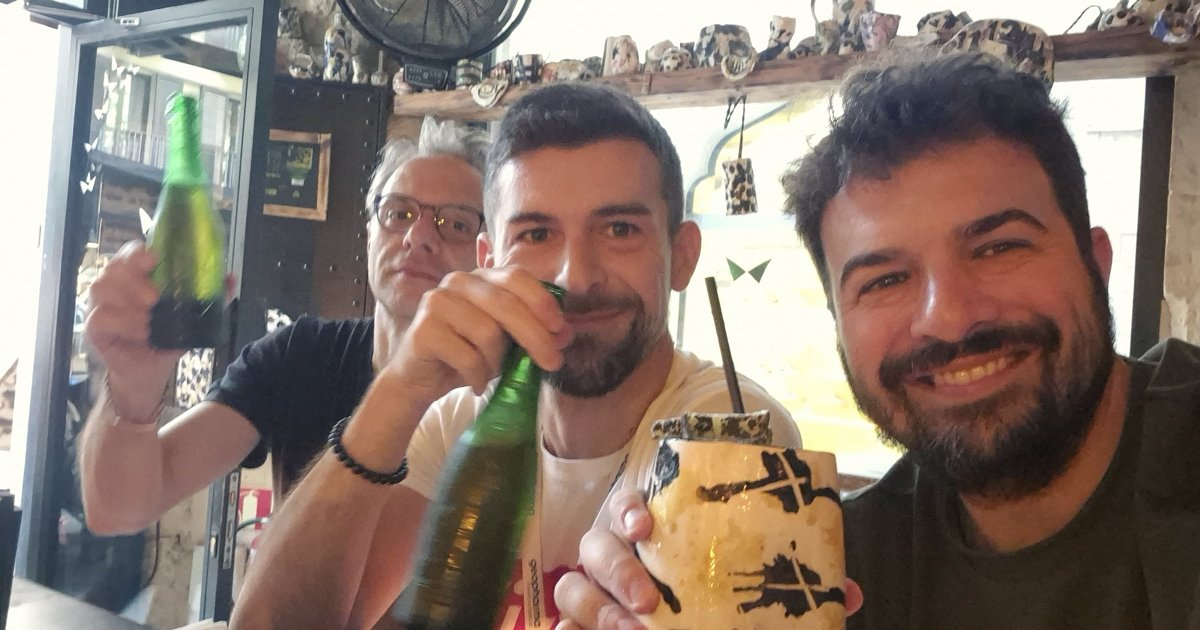
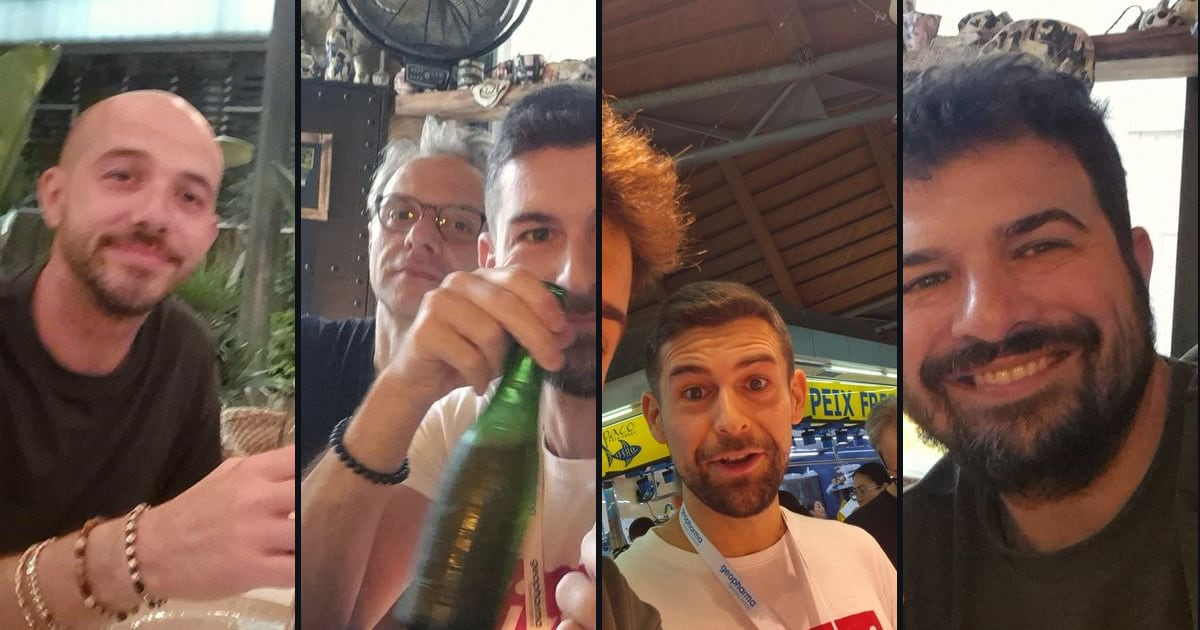
feat(grazie): anteprima WhatsApp con tutti e quattro, testo folle per Monne
L'immagine Open Graph (og-grazie.jpg, v=2) è composta da quattro ritagli: Monne alla Braseria, Giulio e Alessandro
al Mariposa Negra, Manuel a Santa Caterina. Non esiste una foto dei quattro insieme: Monne è partito sabato mattina.

Claude-Session: https://claude.ai/code/session_0186k4nPYJUNr6xdRgi69dU8

diff --git a/public/grazie/index.html b/public/grazie/index.html
@@ -11,11 +11,11 @@
     <meta property="og:type" content="website" />
     <meta property="og:title" content="Grazie, ragazzi — Barcelona 40" />
     <meta property="og:description" content="Tre giorni, quattro amici, zero rimpianti. Le foto e due righe da Alessandro." />
-    <meta property="og:image" content="https://alessandrovizzini1986-a11y.github.io/barcellona-40/img/og-grazie.jpg?v=1" />
+    <meta property="og:image" content="https://alessandrovizzini1986-a11y.github.io/barcellona-40/img/og-grazie.jpg?v=2" />
     <meta property="og:image:width" content="1200" />
     <meta property="og:image:height" content="630" />
     <meta property="og:image:type" content="image/jpeg" />
-    <meta property="og:image:alt" content="Giulio, Manuel e Alessandro al Mariposa Negra, brindisi in tre" />
+    <meta property="og:image:alt" content="Monne, Giulio, Manuel e Alessandro: i quattro del weekend" />
     <meta property="og:url" content="https://alessandrovizzini1986-a11y.github.io/barcellona-40/grazie/" />
     <meta property="og:site_name" content="Barcelona 40" />
     <meta property="og:locale" content="it_IT" />
@@ -136,7 +136,7 @@
             <img src="../img/grazie/03_ven_braseria-sarria_ale-monne-thumb.webp" width="800" height="370" alt="Monne e Alessandro alla Braseria Sarrià, sulla terrazza con le piante e gli ombrelloni, calici in mano" loading="lazy" />
             <div class="amico__corpo">
               <h3 class="amico__nome">Monne</h3>
-              <p>Venerdì. Solo tu e io, il mercato di Santa Caterina, il bancone del Bar Joan e una bistecca che non finiva mai. Sei partito sabato mattina ma hai aperto il weekend nel modo giusto. Grazie per esserci stato il primo giorno, quando ancora non era festa.</p>
+              <p>Venerdì eravamo in due e sembravamo in dodici: il mercato di Santa Caterina preso d'assalto, il bancone del Bar Joan sotto assedio, una bistecca alla Braseria che a un certo punto ha chiesto pietà. Sei partito sabato all'alba come un agente segreto a missione compiuta, lasciando la città più leggera di un vermut e di parecchio jamón. Hai aperto il weekend quando non era ancora festa e l'hai reso festa. Grazie, pioniere.</p>
             </div>
             <small class="credito">foto: Alessandro</small>
           </article>

diff --git a/index.html b/index.html
@@ -11,11 +11,11 @@
     <meta property="og:type" content="website" />
     <meta property="og:title" content="Barcelona 40" />
     <meta property="og:description" content="Il weekend dei 40 di Alessandro. Grazie a chi c'era." />
-    <meta property="og:image" content="%SITE_URL%img/og-grazie.jpg?v=1" />
+    <meta property="og:image" content="%SITE_URL%img/og-grazie.jpg?v=2" />
     <meta property="og:image:width" content="1200" />
     <meta property="og:image:height" content="630" />
     <meta property="og:image:type" content="image/jpeg" />
-    <meta property="og:image:alt" content="Manuel, Giulio e Alessandro al Mariposa Negra, brindisi in tre" />
+    <meta property="og:image:alt" content="Monne, Giulio, Manuel e Alessandro: i quattro del weekend" />
     <meta property="og:url" content="%SITE_URL%" />
     <meta property="og:site_name" content="Barcelona 40" />
     <meta property="og:locale" content="it_IT" />
